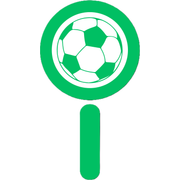
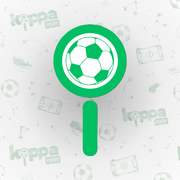
fix(pwa): icônes générées depuis l'artwork au motif
L'image de référence n'était pas logo_symbol.png : le fond fait partie
du visuel. Ajoute public/branding/logo_icon_pattern.png comme source et
régénère favicon, icon, apple-icon et les icônes du manifeste depuis
elle.

L'artwork sert aussi de tuile maskable, par choix explicite. Mesuré :
le dessin s'étend à 924 px du centre sur 2000, la zone de sécurité du
recadrage circulaire s'arrête à 800 — le haut du ballon et le bas de la
tige seront rognés sur l'écran d'accueil. Retenu contre l'alternative,
qui demandait de recomposer le motif derrière un symbole réduit.

Deux pièges rencontrés :
- la source n'a pas de canal alpha, et les PNG embarqués dans un .ico
  doivent être en RGBA sinon le décodeur de Next rejette le fichier
  entier (le serveur rendait 500 sur toutes les pages) ;
- la spec autorise purpose: "any maskable" en une entrée, le type
  Manifest de Next non — d'où deux entrées sur le même fichier.

diff --git a/src/app/manifest.ts b/src/app/manifest.ts
@@ -12,9 +12,14 @@ export default function manifest(): MetadataRoute.Manifest {
     background_color: "#022c22",
     theme_color: "#059669",
     categories: ["sports", "football"],
-    // Each entry now serves a file that really is the size it declares. The
-    // maskable one is a separate render: launchers crop maskable icons to a
-    // safe circle, and this symbol's stem was being sliced off.
+    // Each entry serves a file that really is the size it declares — the old
+    // ones pointed at the 2000x2000 source for every slot.
+    //
+    // The artwork doubles as the maskable icon by explicit choice. Launchers
+    // crop maskable icons to a circle covering the middle 80%, and this
+    // drawing reaches 16% past that, so the top of the ball and the foot of
+    // the stem are clipped on the home screen. Accepted: the alternative was
+    // recomposing the motif behind a shrunken symbol, and the artwork wins.
     icons: [
       {
         src: "/icons/icon-192.png",
@@ -28,8 +33,10 @@ export default function manifest(): MetadataRoute.Manifest {
         type: "image/png",
         purpose: "any",
       },
+      // Same file, declared twice: the spec allows "any maskable" in one
+      // entry but Next's Manifest type only takes a single purpose.
       {
-        src: "/icons/icon-maskable-512.png",
+        src: "/icons/icon-512.png",
         sizes: "512x512",
         type: "image/png",
         purpose: "maskable",
